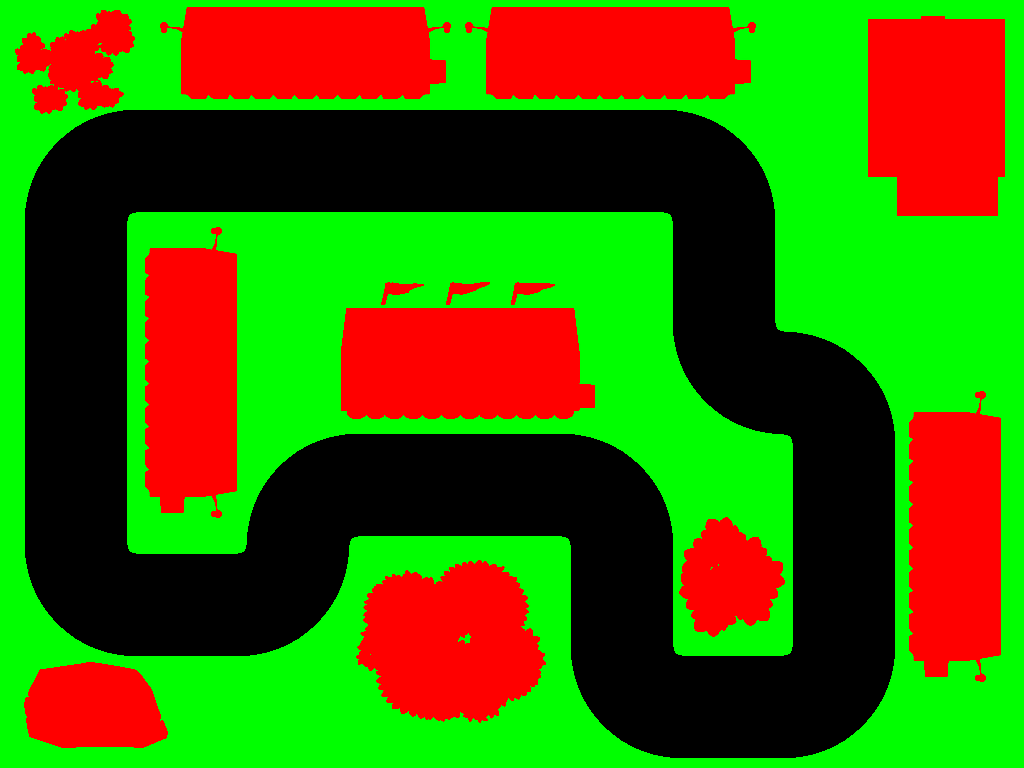
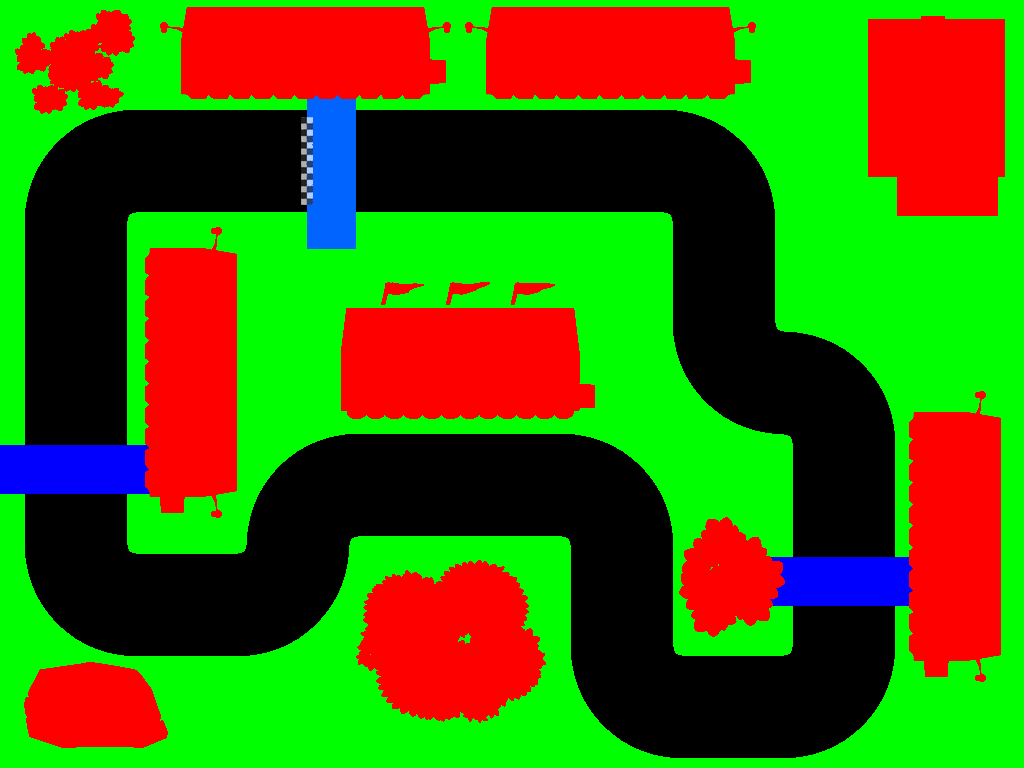
Added checkpoints

Changed region(s): [[0.2812, 0.125, 0.375, 0.3438], [0.75, 0.7188, 0.9062, 0.8125], [0.0, 0.5625, 0.1562, 0.6562]]

diff --git a/game.ts b/game.ts
@@ -35,6 +35,8 @@ class Race {
     private _boundingRectangle: DOMRect;
     private _id: number;
     private _interval: number;
+    private _currentCheckPoint: number;
+    private _maxCheckPoint: number;  
     private _mousePosition: XYCoordinates;
     private _car: Car;
     private _track: Track;
@@ -59,6 +61,8 @@ class Race {
         
         this._boundingRectangle = this._canvas.getBoundingClientRect();
         this._interval = updateInterval;
+        this._currentCheckPoint = 0;
+        this._maxCheckPoint = 3;
         this._mousePosition = { x: this._canvas.width / 2, y: this._canvas.height / 2};
         let carPosition = { x: this._canvas.width / 2, y: this._canvas.height / 2};
         let carAzimuth = 1.5 * Math.PI;
@@ -94,6 +98,10 @@ class Race {
         clearInterval(this._id);
         this._id = setInterval(this.update.bind(this), this._interval);
     }
+    finnish() {
+        clearInterval(this._id);
+
+    }
     update() {
         this.updatePositions();
         this.calculateCollisions();
@@ -118,14 +126,32 @@ class Race {
         let carFrontCoords: XYCoordinates = { x: this._car.position.x + this._car.halfSize.y * Math.cos(this._car.azimuth + Math.PI / 2), y: this._car.position.y + this._car.halfSize.y * Math.sin(this._car.azimuth + Math.PI / 2)};
         let carFrontLeftCoords: XYCoordinates = { x: carFrontCoords.x + this._car.halfSize.x * Math.cos(this._car.azimuth), y: carFrontCoords.y + this._car.halfSize.x * Math.sin(this._car.azimuth) };
         let carFrontRightCoords: XYCoordinates = { x: carFrontCoords.x + this._car.halfSize.x * Math.cos(this._car.azimuth + Math.PI), y: carFrontCoords.y + this._car.halfSize.x * Math.sin(this._car.azimuth + Math.PI) };
-        let leftImgData = this._supportContext.getImageData(carFrontLeftCoords.x, carFrontLeftCoords.y, 1, 1);
-        let rightImgData = this._supportContext.getImageData(carFrontRightCoords.x, carFrontRightCoords.y, 1, 1);
-        if (leftImgData.data.toString() == "255,0,0,255") {
+        let leftCornerImgData = this._supportContext.getImageData(carFrontLeftCoords.x, carFrontLeftCoords.y, 1, 1);
+        let rightCornerImgData = this._supportContext.getImageData(carFrontRightCoords.x, carFrontRightCoords.y, 1, 1);
+        this.checkSurface(leftCornerImgData, rightCornerImgData);
+    }
+    checkSurface(leftCornerImgData: ImageData, rightCornerImgData: ImageData) {
+        if (leftCornerImgData.data.toString() == "0,0,0,255" && rightCornerImgData.data.toString() == "0,0,0,255") {    // black (asphalt)
+            this._car.acceleration = 0.015;
+            this._car.inertia = 0.5;
+        } else if (leftCornerImgData.data[0] == 255 || rightCornerImgData.data[0] == 255) { // red (object)
             clearInterval(this._id);
-            this._explosion.animate(carFrontLeftCoords);
-        } else if (rightImgData.data.toString() == "255,0,0,255") {
-            clearInterval(this._id);
-            this._explosion.animate(carFrontRightCoords);
+            this._explosion.animate(this._car.position);
+        } else if (leftCornerImgData.data[1] == 255 || rightCornerImgData.data[1] == 255) { // greeen (grass)
+            this._car.acceleration = 0.01;
+            this._car.inertia = 0;
+        } else if (leftCornerImgData.data[2] == 255) {  // blue (checkpoint)
+            this.checkPoint(leftCornerImgData);
+        } else if (rightCornerImgData.data[2] == 255) { // blue (checkpoint)
+            this.checkPoint(rightCornerImgData);
+        } 
+    }
+    checkPoint(cornerImgData: ImageData) {
+        if (cornerImgData.data[0] == this._currentCheckPoint) {
+            this._currentCheckPoint++;
+            if (this._currentCheckPoint == this._maxCheckPoint) {
+                this.finnish();
+            }
         }
     }
 
@@ -186,6 +212,8 @@ class Car {
     private _mousePosition: XYCoordinates;
     private _position: XYCoordinates;
     private _speed: XYCoordinates;
+    private _acceleration: number;
+    private _inertia: number;
     private _azimuth: number;
     private _ctx: CanvasRenderingContext2D;
 
@@ -210,6 +238,8 @@ class Car {
         this._mousePosition = race.mousePosition;
         this._position = startPosition;
         this._speed = { x: 0, y: 0 };
+        this._acceleration = 0.015;
+        this._inertia = 0.5;
         this._azimuth = startAzimuth;
 
         this._ctx = race.canvas.getContext("2d");
@@ -218,6 +248,12 @@ class Car {
 
     get speed() {
         return this._speed;
+    }
+    set acceleration(newAcceleration: number) {
+        this._acceleration = newAcceleration;
+    }
+    set inertia(newInertia: number) {
+        this._inertia = newInertia;
     }
     set position(newPosition: XYCoordinates) {
         this._position = newPosition;
@@ -237,8 +273,8 @@ class Car {
         this.newAzimuth();
     }
 	newSpeed() {
-		this._speed.x = ((this._mousePosition.x - this._position.x)/20 + this._speed.x)/2;
-		this._speed.y = ((this._mousePosition.y - this._position.y)/20 + this._speed.y)/2;
+		this._speed.x = (this._mousePosition.x - this._position.x)*this._acceleration + this._speed.x*this._inertia;
+		this._speed.y = (this._mousePosition.y - this._position.y)*this._acceleration + this._speed.y*this._inertia;
     }
     newAzimuth() {
         this._azimuth = Math.atan2(this._position.y - this._mousePosition.y, this._position.x - this._mousePosition.x) + Math.PI / 2;
